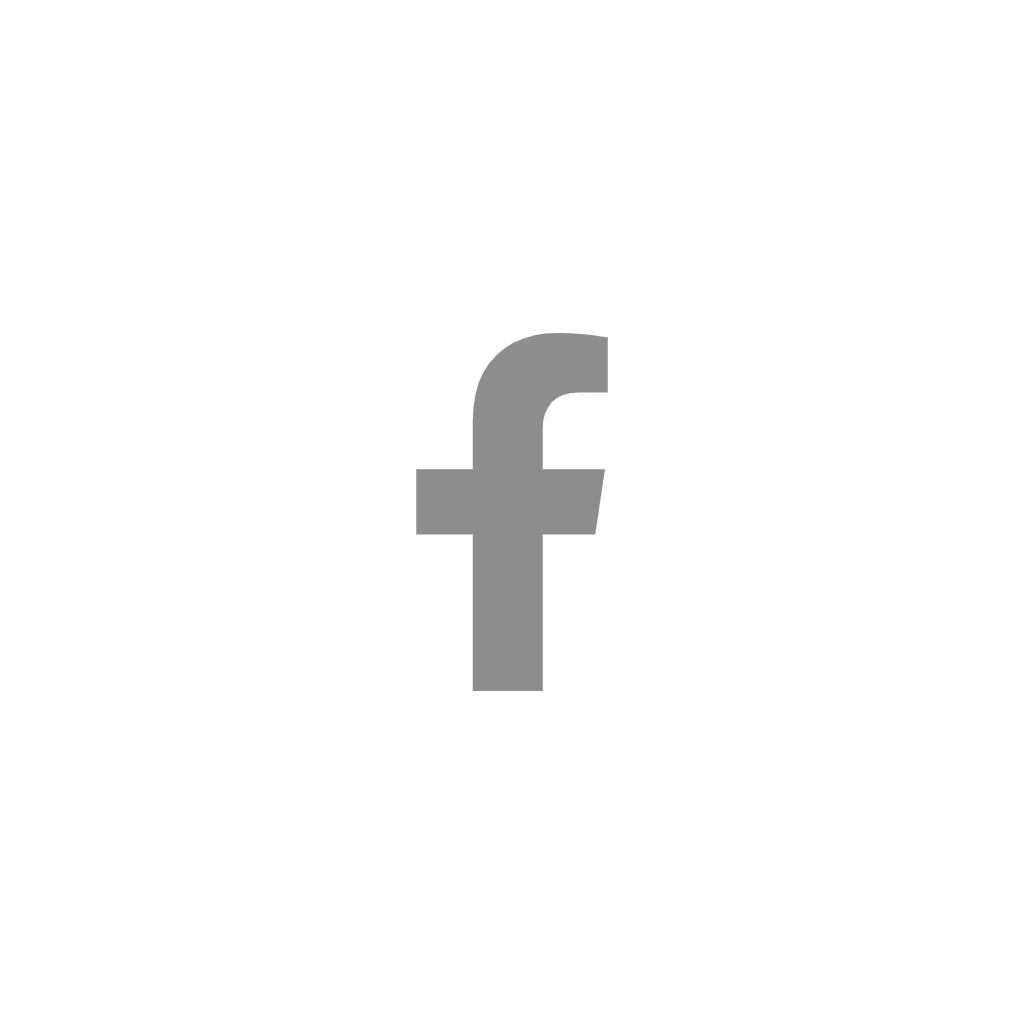
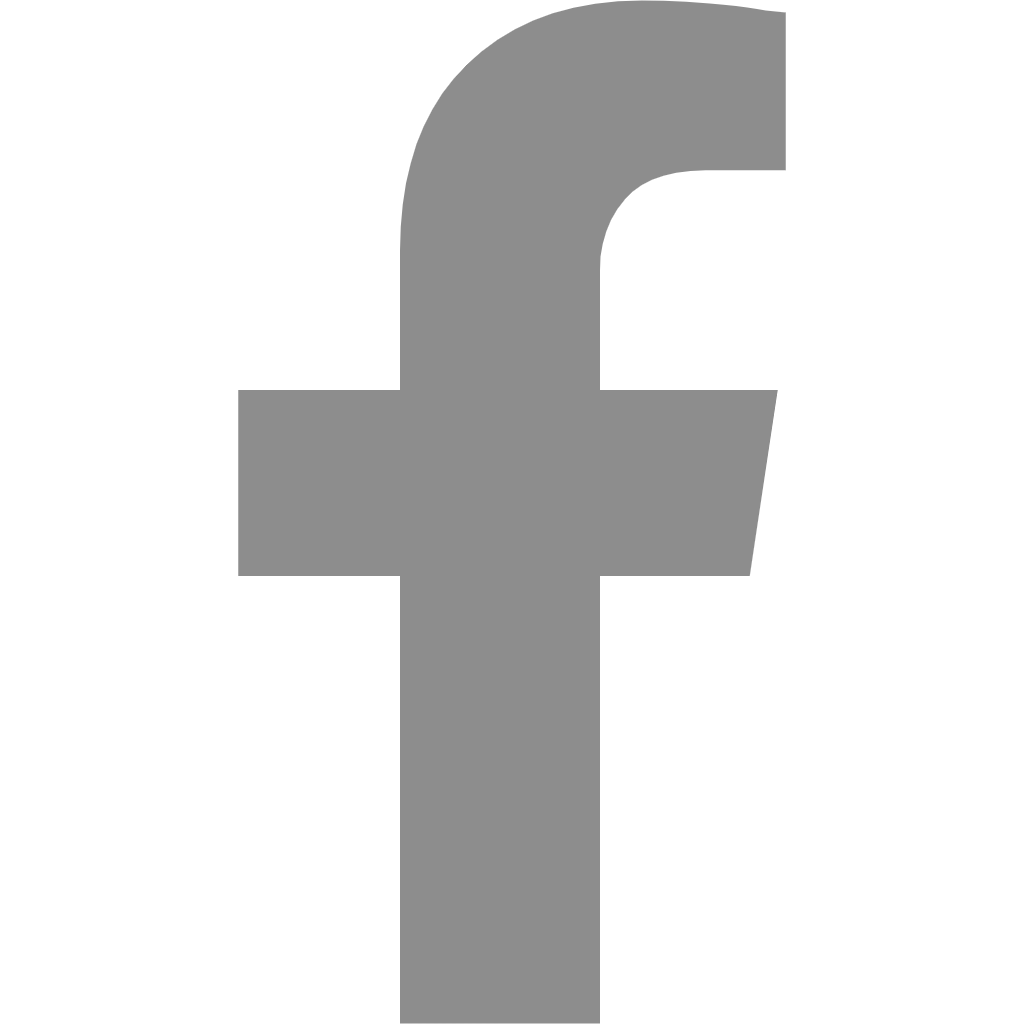
20220611

Changed region(s): [[0.2188, 0.0, 0.7812, 1.0]]

diff --git a/2/navbar2.html b/2/navbar2.html
@@ -91,7 +91,7 @@
                         <li>
                             <li class="nav-item">
                                 <a class="nav-link" href="https://www.facebook.com/tfcf60">
-                                    <img src="img/favicon.ico" width="20px" >
+                                    <img src="fb.png" width="20px" >
                                 </a>
                             </li>
                         </li>

diff --git a/2/top.html b/2/top.html
@@ -91,7 +91,7 @@
                         <li>
                             <li class="nav-item">
                                 <a class="nav-link" href="https://www.facebook.com/tfcf60">
-                                    <img src="img/favicon.ico" width="20px" >
+                                    <img src="fb.png" width="20px" >
                                 </a>
                             </li>
                         </li>
